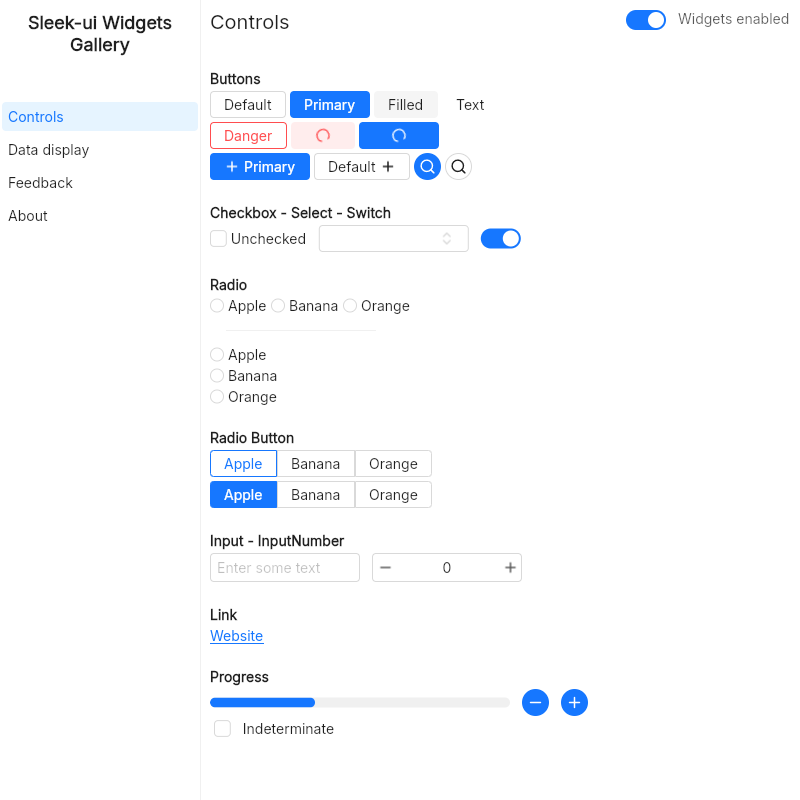
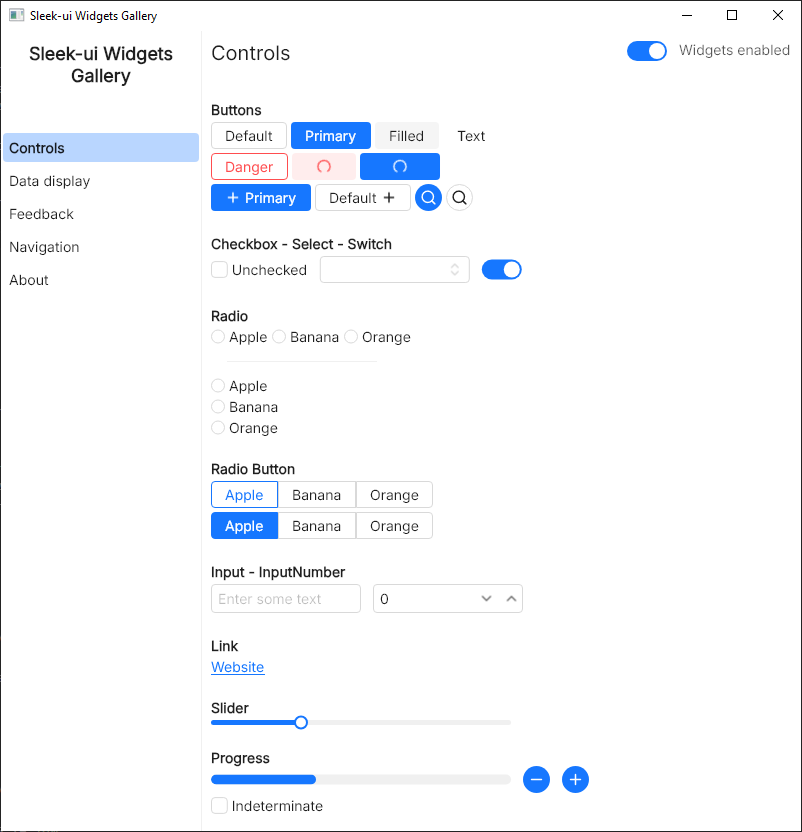
chore: update gallery screenshot in README

diff --git a/README.md b/README.md
@@ -7,6 +7,7 @@ A UI components library built with/for [Slint](https://github.com/slint-ui/slint
 <p align="center">
 	<img src="images/widgets_gallery.png" width="500px" />
 </p>
+![alt text](image-1.png)
 <br />
 <br />
 <br />
@@ -140,7 +141,7 @@ Documentation pages :
 - [x] Radio
 - [x] RadioButton
 - [x] Select
-- [ ] Slider
+- [x] Slider
 - [x] Switch
 - [ ] TimePicker
 
